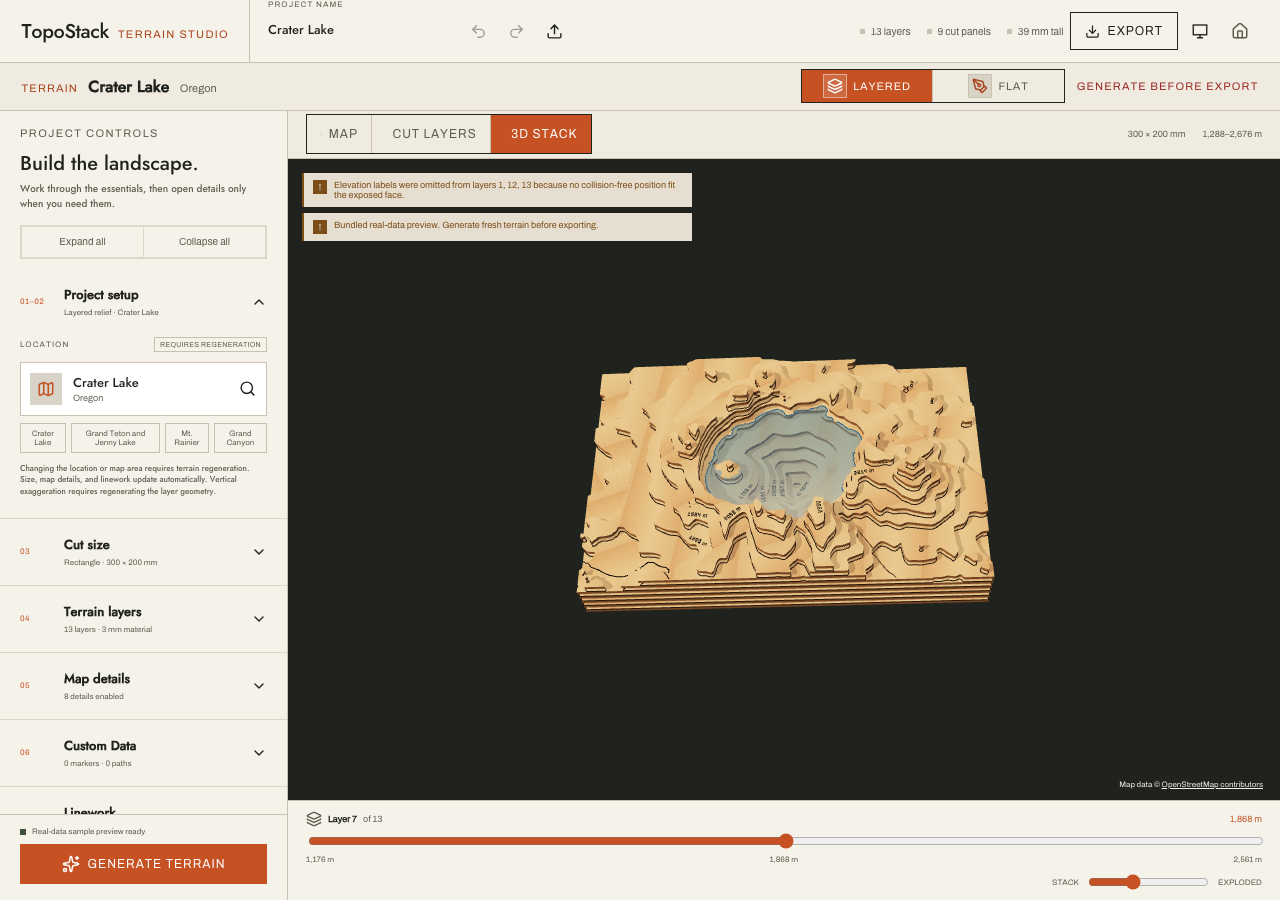
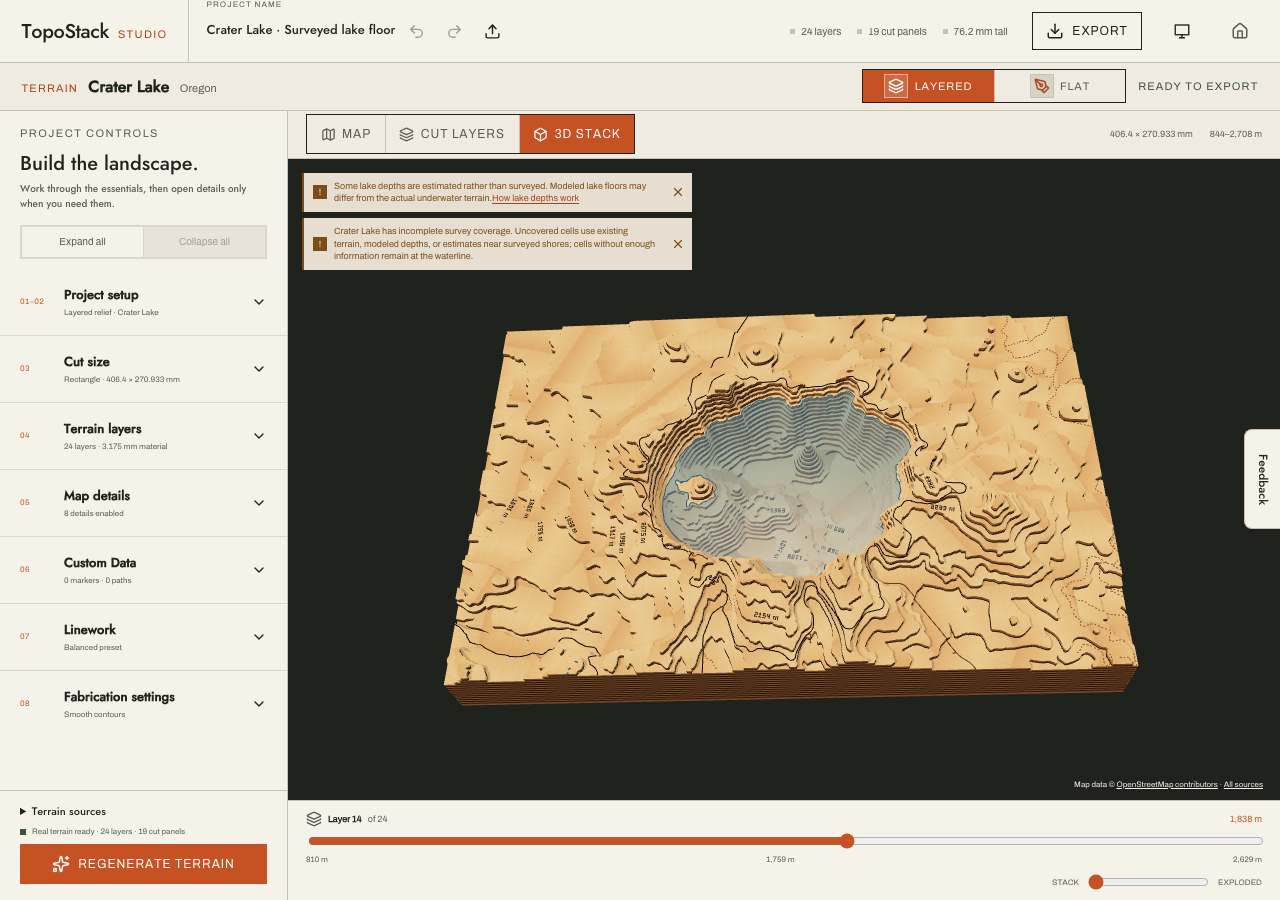
Refresh website and social images with surveyed lake bathymetry

diff --git a/apps/generator/src/routes/examples/crater-lake/+page.svelte b/apps/generator/src/routes/examples/crater-lake/+page.svelte
@@ -5,15 +5,15 @@
 
 <Article title="Explore a Crater Lake topographic map" intro="Start with the landscape already waiting in TopoStack. The Crater Lake preview shows how real elevation and map details become a layered terrain project.">
   <figure>
-    <img src={`${base}/images/studio-crater-lake.png`} width="1280" height="900" alt="Crater Lake's bundled terrain preview in TopoStack, shown as an exploded 3D stack with project and layer controls." />
-    <figcaption>A screenshot of the bundled preview, not a photograph of a fabricated object. Generate fresh terrain before exporting your own artwork.</figcaption>
+    <img src={`${base}/images/studio-crater-lake.png`} width="1280" height="900" alt="Freshly generated Crater Lake relief in TopoStack with USGS surveyed lake-floor bathymetry." />
+    <figcaption>Freshly generated Crater Lake relief with USGS surveyed lake-floor data where available. Gaps use existing terrain or modeled depths; depth is exaggerated.</figcaption>
   </figure>
-  <h2>Recreate the starting project</h2>
+  <h2>Recreate the pictured project</h2>
   <ol>
     <li><a href={`${base}/studio`}>Open the terrain studio</a>. A new browser starts with the Crater Lake preview. If a saved project opens instead, choose the <strong>Crater Lake</strong> location preset.</li>
-    <li>Select <strong>Layered relief</strong>. For a starting size like the pictured project, choose a rectangle, 300 mm wide by 200 mm high, with 3 mm sheet material.</li>
-    <li>Inspect the selected map area and set the vertical exaggeration to suit the relief you want. The studio calculates the layer count; the pictured count is a preview result, not a guaranteed result for every framing or data update.</li>
-    <li>Choose roads, water and other details, then select <strong>Generate terrain</strong>.</li>
+    <li>Select <strong>Layered relief</strong>. For a starting size like the pictured project, choose a rectangle, 406.4 mm wide by 270.933 mm high, with 3.175 mm sheet material.</li>
+    <li>Inspect the selected map area and request 4× terrain exaggeration. The studio fits the relief to its layer limit, which can reduce the applied scale. The pictured project uses 24 layers; different framing or data updates can change the result.</li>
+    <li>Enable <strong>Water depth</strong>, set depth exaggeration to <strong>1.75×</strong>, and enable <strong>Fit lake depth to available layers</strong>. Choose roads, water and other details, then select <strong>Generate terrain</strong>.</li>
     <li>Inspect the layers and the exploded 3D view, then export the complete project and read its assembly guide.</li>
   </ol>
   <p>Choosing the location preset changes the place; it does not reset all of a saved project's other settings. Check output mode, size, material thickness and map details explicitly.</p>

diff --git a/apps/generator/src/lib/Seo.svelte b/apps/generator/src/lib/Seo.svelte
@@ -34,15 +34,15 @@
   <meta property="og:title" content={title} />
   <meta property="og:description" content={description} />
   <meta property="og:url" content={canonical} />
-  <meta property="og:image" content={SITE_ORIGIN + "/images/studio-crater-lake.png"} />
-  <meta property="og:image:width" content="1280" />
-  <meta property="og:image:height" content="900" />
-  <meta property="og:image:alt" content="TopoStack studio showing the Crater Lake terrain preview as an exploded stack of layers." />
+  <meta property="og:image" content={SITE_ORIGIN + "/images/social-crater-lake.png"} />
+  <meta property="og:image:width" content="1200" />
+  <meta property="og:image:height" content="630" />
+  <meta property="og:image:alt" content="TopoStack Crater Lake relief with USGS surveyed lake-floor bathymetry and exaggerated depth." />
   <meta name="twitter:card" content="summary_large_image" />
   <meta name="twitter:title" content={title} />
   <meta name="twitter:description" content={description} />
-  <meta name="twitter:image" content={SITE_ORIGIN + "/images/studio-crater-lake.png"} />
-  <meta name="twitter:image:alt" content="Crater Lake terrain preview in the TopoStack studio." />
+  <meta name="twitter:image" content={SITE_ORIGIN + "/images/social-crater-lake.png"} />
+  <meta name="twitter:image:alt" content="Crater Lake relief with surveyed bathymetry in TopoStack." />
   {#if metadata}
     <!-- JSON is serialized from known metadata and escapes every less-than sign. -->
     <!-- eslint-disable-next-line svelte/no-at-html-tags -->

diff --git a/apps/generator/src/routes/+page.svelte b/apps/generator/src/routes/+page.svelte
@@ -82,7 +82,7 @@
 
     <section class="section" aria-labelledby="example-title">
       <div class="section-heading"><p class="eyebrow">Inside the studio</p><h2 id="example-title">Explore the Crater Lake terrain preview</h2><p>See how real elevation becomes a stack of contours. Follow the example, then generate fresh terrain to create your own fabrication files.</p></div>
-      <figure class="studio-example"><img src={`${base}/images/studio-crater-lake.png`} width="1280" height="900" loading="lazy" decoding="async" alt="TopoStack studio with the Crater Lake terrain preview, layer controls and an exploded 3D stack." /><figcaption>Bundled terrain preview. Generate fresh data before exporting.</figcaption></figure>
+      <figure class="studio-example"><img src={`${base}/images/studio-crater-lake.png`} width="1280" height="900" loading="lazy" decoding="async" alt="TopoStack studio with freshly generated Crater Lake terrain and USGS surveyed lake-floor relief." /><figcaption>Crater Lake with USGS surveyed bathymetry where available. Gaps use existing terrain or modeled depths; depth is exaggerated.</figcaption></figure>
       <a class="secondary-link" href={`${base}/examples/crater-lake`}>Follow the Crater Lake project <ArrowRight size={16} aria-hidden="true" /></a>
     </section>
 

diff --git a/docs/images/README.md b/docs/images/README.md
@@ -1,14 +1,26 @@
-# README visuals
+# Website and README visuals
 
-- `workflows.svg` reuses the layered-relief and flat-engraving diagrams from the homepage (formerly the About page), with their styles embedded for display on GitHub.
-- `studio-crater-lake.png` is an actual studio screenshot of the bundled Crater Lake preview, captured in a fresh browser context at 1280 × 900 in the light theme. Attribution and preview notices remain visible.
+- `workflows.svg` reuses the homepage's layered-relief and flat-engraving diagrams, with styles embedded for GitHub.
+- `studio-crater-lake.png` is a direct 1280 × 900 studio screenshot of freshly generated Crater Lake terrain using USGS lake-floor survey data. The script copies it to `apps/generator/static/images/studio-crater-lake.png` for the homepage and example page.
+- `apps/generator/static/images/social-crater-lake.png` is a 1200 × 630 sharing card composed around an unaltered screenshot of the same app-rendered model. Open Graph and Twitter metadata use this card.
+- `media-provenance.json` records capture time, project settings, and successful survey request URLs.
 
-To refresh both assets, start the normal frontend with `npm run dev:web`, then run this in a second terminal from the repository root:
+Survey coverage is incomplete: existing terrain or modeled depths fill gaps. The pictured depth scale is exaggerated. The bundled startup preview still uses modeled depths; it is not the source of these screenshots. The Atomm gallery already has survey-backed media and its own record in `atomm/media-provenance.json`.
+
+Start the normal frontend using the deployed data API:
+
+```sh
+VITE_MAP_API_URL=https://topostack.echofoxtrot.works npm run dev:web
+```
+
+Then run from the repository root:
 
 ```sh
 node scripts/capture-readme-assets.mjs
 ```
 
-The capture script uses the installed Playwright Chromium browser. If needed, install it with `npx playwright install chromium`. Set `TOPOSTACK_CAPTURE_URL` when the frontend uses a different origin. Use the normal frontend, which includes the real-data sample, rather than an end-to-end test build.
+Set `TOPOSTACK_CAPTURE_URL` if the frontend uses a different origin. The script requires installed Playwright Chromium (`npx playwright install chromium` if needed). It restores the settings in `atomm/media-project-v3.json`, generates fresh terrain, and requires both a successful USGS survey response and the app's surveyed-data notice before saving screenshots. Public API responses are relayed through Playwright without localhost Origin/Referer headers; their data is unchanged. Use a normal frontend, not an end-to-end test build, and avoid editing app files during capture because hot reload can reset the terrain.
 
-The illustration source is `apps/generator/src/app/TerrainIllustration.svelte`. Regenerate these assets when that component, the theme, or the studio layout changes, and review the results before committing.
+The captured project is 406.4 × 270.933 mm with 3.175 mm material, requested 4× terrain exaggeration, 1.75× water-depth exaggeration, and Fit lake depth enabled. Layer limits can reduce the applied terrain scale. Attribution and coverage warnings remain visible in the studio screenshot.
+
+Regenerate after changes to the UI, theme, survey data, or `TerrainIllustration.svelte`; visually inspect both PNGs before committing. No AI-generated terrain is used.

diff --git a/README.md b/README.md
@@ -19,7 +19,9 @@ Layered projects also support modeled lake depth, alignment guides, and material
 
 ### Inside the studio
 
-![TopoStack studio showing the Crater Lake sample as a 3D terrain stack, with project controls and the layer and exploded-view sliders](docs/images/studio-crater-lake.png)
+![TopoStack studio showing freshly generated Crater Lake terrain with USGS surveyed lake-floor relief](docs/images/studio-crater-lake.png)
+
+Crater Lake with USGS surveyed lake-floor data where available; existing terrain or modeled depths fill gaps. Depth is exaggerated for display.
 
 *The bundled Crater Lake preview in the studio's 3D stack view. Generate fresh terrain before exporting fabrication files.*
 
